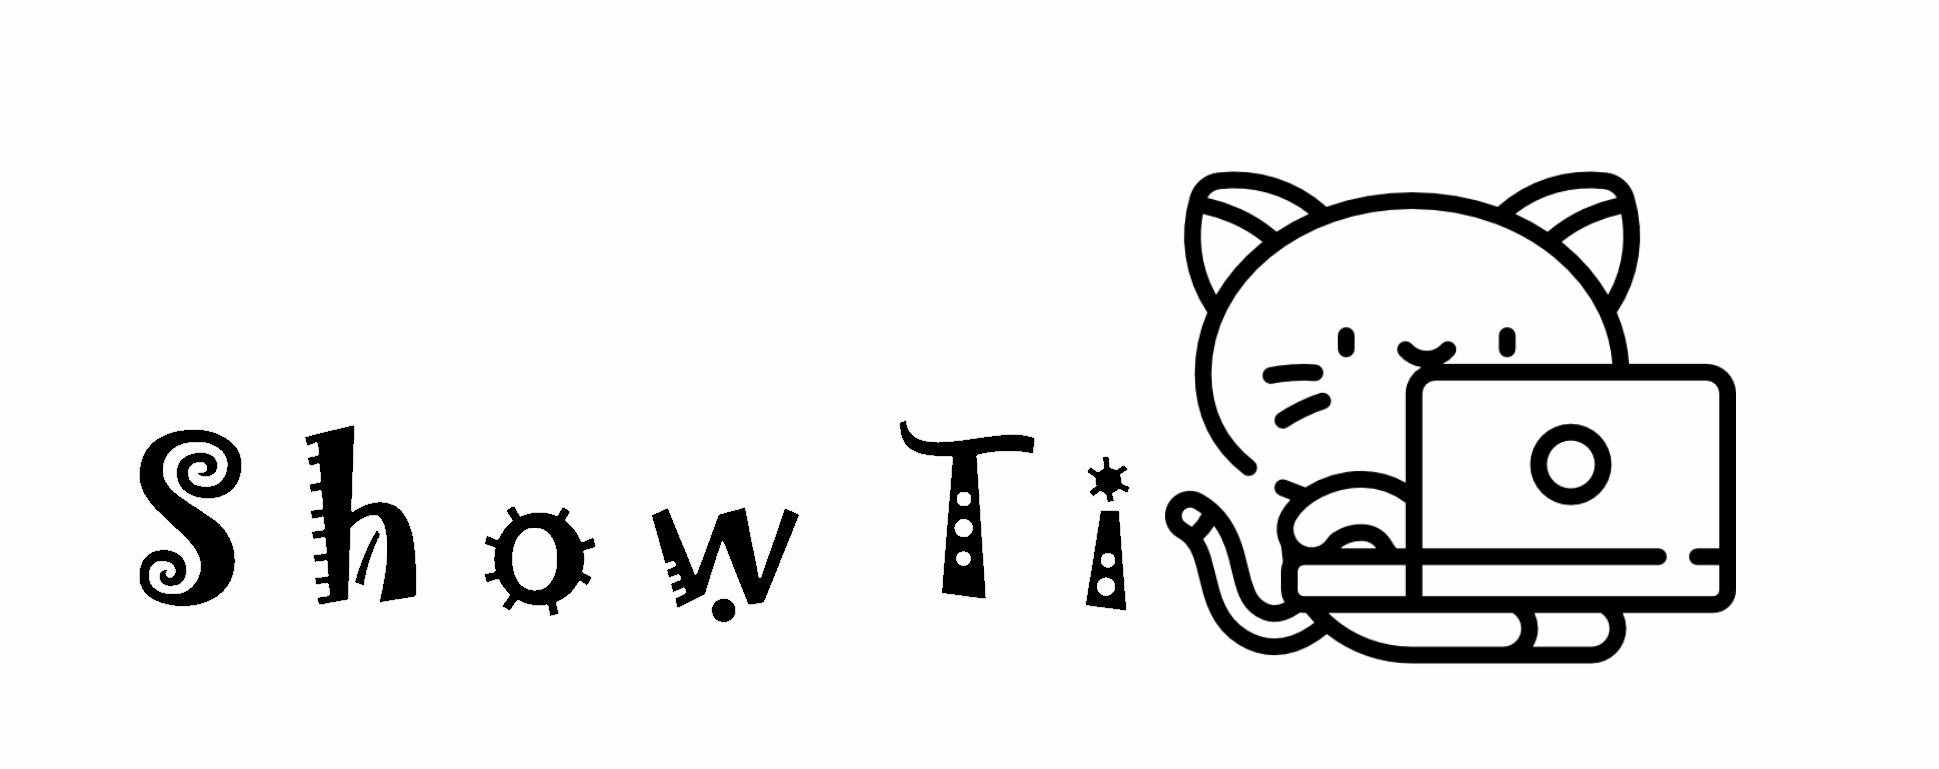
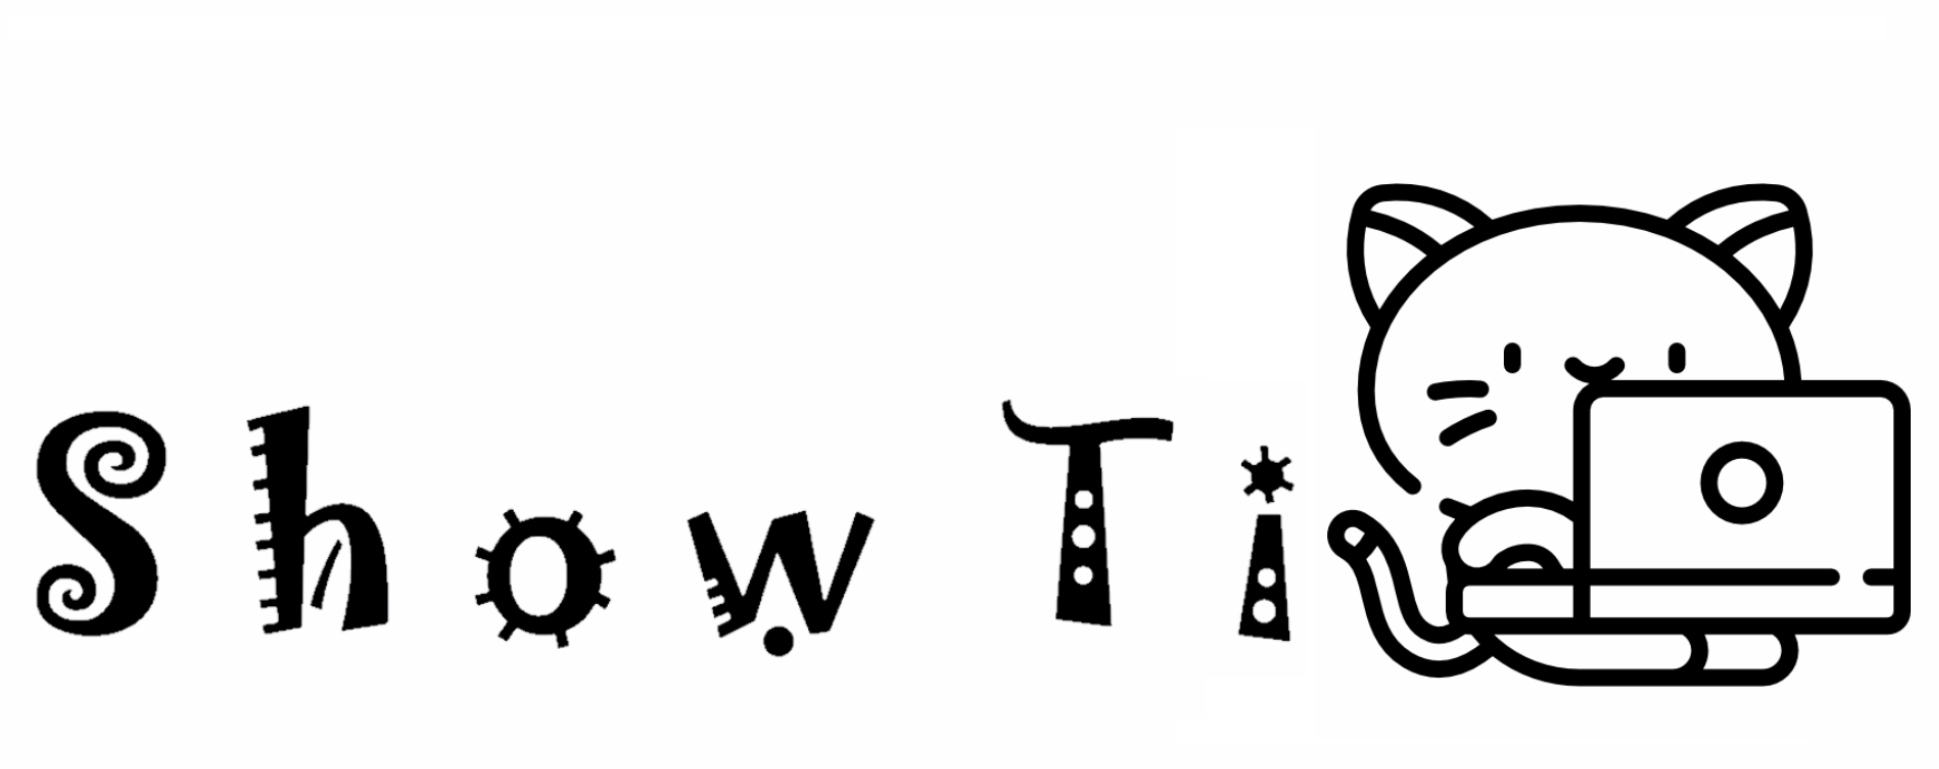
commit_22.06.13

Changed region(s): [[0.2476, 0.2185, 0.9902, 0.9051], [0.0, 0.5306, 0.2166, 0.8427]]

diff --git a/src/main/webapp/css/header.css b/src/main/webapp/css/header.css
@@ -54,7 +54,7 @@ header
 }
 
 .header h1 img {
-    width: 117px;
+    width: 240px;
     height: 100%;
 
 }

diff --git a/src/main/java/com/kos/showticat/user/display/GetSysdate.java b/src/main/java/com/kos/showticat/user/display/GetSysdate.java
@@ -19,9 +19,8 @@ public class GetSysdate extends HttpServlet {
 	private static final long serialVersionUID = 1L;
 
 	protected void doGet(HttpServletRequest request, HttpServletResponse response) throws ServletException, IOException {	
-		
-		PrintWriter out = response.getWriter();
-		out.print(DateUtil.sysdate());
+		HttpSession session = request.getSession();
+		session.setAttribute("sysdate", DateUtil.sysdate());
 	}
 
 	protected void doPost(HttpServletRequest request, HttpServletResponse response) throws ServletException, IOException {

diff --git a/src/main/java/com/kos/showticat/user/login/LoginServlet.java b/src/main/java/com/kos/showticat/user/login/LoginServlet.java
@@ -45,7 +45,7 @@ public class LoginServlet extends HttpServlet {
 				path = request.getContextPath() + "/bang/schedule.do";
 				response.sendRedirect(path);
 			}else if(path==null) {
-				path = request.getContextPath() + "/jayoung/main.go";
+				path = request.getContextPath() ;
 				response.sendRedirect(path);
 			}
 		}
